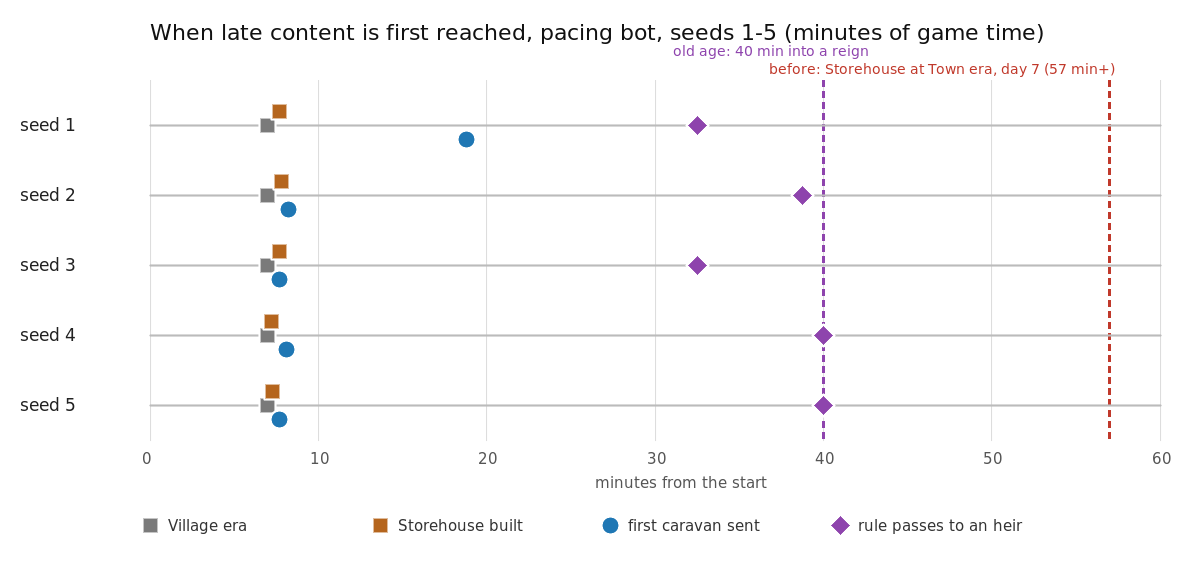
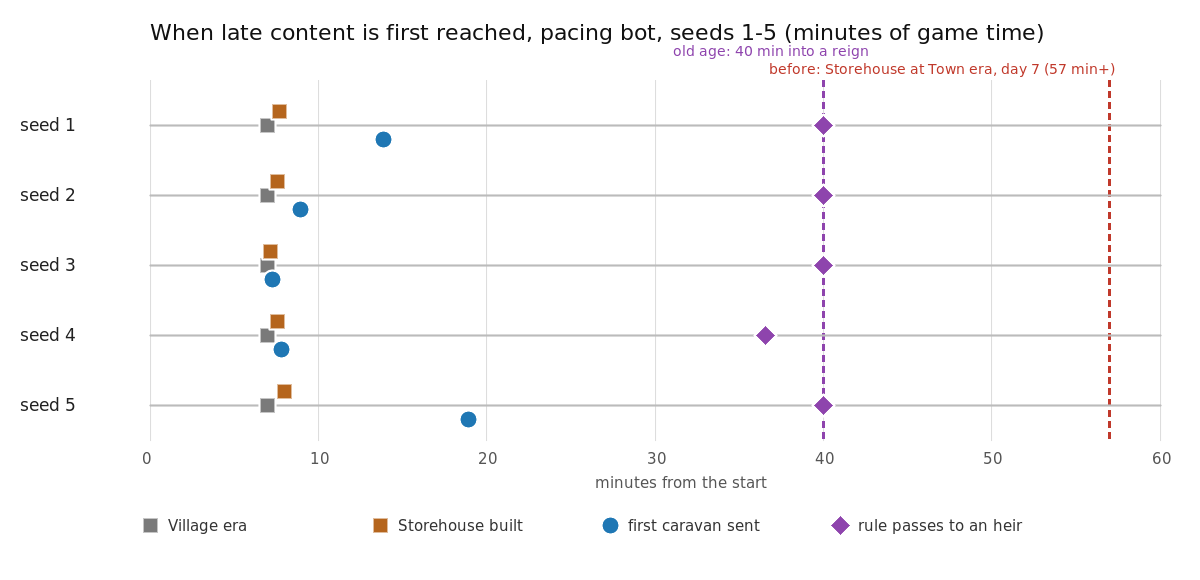
Rebase onto develop with #459 and #460; regenerate the pacing tables and visuals
The measured-timings table and milestone chart come from a fresh run
with the bot answering world-event sheets (#460): old age now ends the
founder's reign at 40 minutes on four of five seeds, and the bot starves
on one (seed 4, 36m 34s) where it starved on three before. Screenshots
are retaken from seed 3.

Claude-Session: https://claude.ai/code/session_01LYNeukxdP2eURbP7PJnoVK

diff --git a/docs/PACING.md b/docs/PACING.md
@@ -9,7 +9,7 @@ How long each objective takes is measured, not guessed. `tools/BeyondNations.Pac
 - It works on the current objective and nothing else, pressing one key at a time and at most five a second.
 - It walks to things (sprinting, turning to face them) and never teleports. Gifts, conversations and market sales are at most one a second, the speed at which someone can read the reply.
 - It only runs the Core commands that the keys and HUD buttons run (`InteractCommand`, `NationCreateCommand`, `FoundSettlementCommand`, `BuildStallCommand`, `BuildBuildingCommand`, `SellResourcesAtMarketCommand`, `GiftPawnCommand`, `InvitePawnToNationCommand`, `GiftNationCommand`, the caravan panel's `TradeCaravans.dispatchPlayerCaravan`, and `WorldEvents.choose` for a world event's sheet). It never uses a debug command.
-- When it works on funds it follows the hint's other road too ("send a caravan from a Storehouse"): once the era unlocks the storehouse, it builds one at home, and with one built it loads what it carries on a caravan to the first market the panel offers whenever one of its two caravans is free.
+- When it works on funds it follows the hint's other road too ("send a caravan from a Storehouse"): once the era unlocks the storehouse, it builds one at home, and with one built it loads what it carries on a caravan to the first market the panel offers whenever one of its two caravans is free. It does both between recruits too, since recruiting needs no wood or stone.
 - It recruits nationless settlers first. They join at Acquaintance, as the hint says. Only when there are none left anywhere does it court another nation's members who neither lead it nor are Loyal by nature. Those need Loyal standing, and poaching them sours relations. It sticks with one settler for up to two minutes while that settler is out of doors.
 - It answers a world event's choice sheet a second after it comes up, with the first choice it can take that costs no coins, since it keeps its coins for gifts (drive the bandits off, dig ditches, welcome the wanderers; `PacingBot.chooseWorldEventAnswer`), through `WorldEvents.choose`, the sheet's buttons. A person cannot play on past the sheet (the host pauses the world), so the bot does not either; it used to leave every sheet to its three-minute timeout and default.
 - When a siege warning tells it to "Gift, ally or grow it", it sends the besieger a gift if it can afford one. If it loses its nation anyway, it founds a new one and starts again.
@@ -28,13 +28,13 @@ Some late content is not an objective but should come up in a normal session of 
 | `caravan` | the player has a caravan of their own on the road | 30 min |
 | `succession` | the rule has passed to an heir (old age, hunger or abdication) | 60 min |
 
-Measured on seeds 1 to 5 (one hour each), with the Village era at day 2 (#455): the Storehouse at 7m 14s to 7m 49s (as the Village era comes), the first caravan within a minute after it on four seeds (18m 47s on seed 1), and a succession on every seed: of old age at 40m 00s on seeds 4 and 5, of hunger at 32m 33s to 38m 47s on seeds 1 to 3 (the bot gives its food away recruiting). The binding objectives are unchanged to within a few seconds, and the objective budget is unchanged.
+Measured on seeds 1 to 5 (one hour each), with the Village era at day 2 (#455) and the bot answering world-event sheets (#460): the Storehouse at 7m 08s to 7m 59s (as the Village era comes), the first caravan at 7m 18s to 18m 56s, and a succession on every seed: of old age at 40m 00s on seeds 1, 2, 3 and 5, and of hunger at 36m 34s on seed 4, six minutes after the founder was told they were growing old. Before the bot answered world events it starved on three seeds at 32 to 39 minutes. The binding objectives are unchanged to within a few seconds, and the objective budget is unchanged.
 
 ![When the Storehouse, the first caravan and the first succession were reached on seeds 1 to 5](./screenshots/reachable-late-game/pacing-milestones.png)
 
-The chart is drawn from `pacing-report.json` by `python3 tools/pacing-milestones-chart.py pacing-out/pacing-report.json OUT.png src/BeyondNations.Desktop/assets/fonts/DejaVuSans.ttf` (ImageMagick). The screenshots below are the bot's own run on seed 4, saved with `--save-at` and loaded in the game with `--continue` (and `--start-screen laws`). They show:
+The chart is drawn from `pacing-report.json` by `python3 tools/pacing-milestones-chart.py pacing-out/pacing-report.json OUT.png src/BeyondNations.Desktop/assets/fonts/DejaVuSans.ttf` (ImageMagick). The screenshots below are the bot's own run on seed 3, saved with `--save-at` and loaded in the game with `--continue` (and `--start-screen laws`). They show:
 
-- the bot on day 2 of the Village era, just after it sent a caravan of 14 wood (the caravan is on the road ahead);
+- the bot on day 2 of the Village era, just after it sent a caravan of 6 wood and 5 stone;
 - day 4, when the chronicle says the founder is growing old;
 - the Laws tab naming the heir, with when old age comes and *Abdicate*, on desktop and phone;
 - the succession screen when the founder dies of old age, 40 minutes in.
@@ -43,7 +43,7 @@ A run consumes the succession notice five seconds after it appears, as a player 
 
 | | |
 |---|---|
-| ![Day 2, Village era: the bot's caravan of 14 wood on the road, and the chronicle line that sent it](./screenshots/reachable-late-game/caravan-sent.png) | ![Day 4: the chronicle says the founder is growing old](./screenshots/reachable-late-game/growing-old.png) |
+| ![Day 2, Village era: the chronicle line for the caravan the bot just sent](./screenshots/reachable-late-game/caravan-sent.png) | ![Day 4: the chronicle says the founder is growing old](./screenshots/reachable-late-game/growing-old.png) |
 | ![The Laws tab names the heir, says when old age comes, and offers Abdicate](./screenshots/reachable-late-game/laws-heir-abdicate.png) | ![The succession screen at 40 minutes: the founder died of old age after a reign of 4 days](./screenshots/reachable-late-game/succession-old-age.png) |
 
 <img src="./screenshots/reachable-late-game/laws-heir-abdicate-phone.png" alt="The Laws tab at phone size" width="270">
@@ -125,15 +125,15 @@ Seconds of game time per objective, at 50 ticks a second and 30 000 ticks (10 mi
 | Enter your settlement | 1 | 1 | 1 | 1 | 1 | 0 – 60 |
 | Build a market stall | 7 | 14 | 6 | 6 | 5 | 0 – 120 |
 | Reach the Village era | 404 | 393 | 403 | 406 | 407 | 300 – 1800 |
-| Sell resources at market | 1 | 12 | 1 | 2 | 11 | 0 – 180 |
-| Found a second settlement | 11 | 18 | 20 | 1 | 23 | 0 – 120 |
-| Grow your nation to 16 (ambition) | 199 | 120 | 203 | 1 | 125 | 5 – 2400, advisory |
-| Amass 1000 coins (ambition) | 238 | 186 | 177 | 33 | 181 | 30 – 3900, advisory |
-| Hold 3 settlements (ambition) | 13 | 25 | 24 | 12 | 23 | 0 – 300, advisory |
-| Reach the Town era (ambition) | 2538 | 2639 | 2575 | 2951 | 2637 | 0 – 5400, advisory |
+| Sell resources at market | 11 | 11 | 6 | 5 | 4 | 0 – 180 |
+| Found a second settlement | 16 | 1 | 1 | 13 | 28 | 0 – 120 |
+| Grow your nation to 16 (ambition) | 363 | 109 | 1 | 170 | 659 | 5 – 2400, advisory |
+| Amass 1000 coins (ambition) | 80 | 89 | 62 | 81 | 85 | 30 – 3900, advisory |
+| Hold 3 settlements (ambition) | 25 | 1 | 38 | 1 | 23 | 0 – 300, advisory |
+| Reach the Town era (ambition) | 2505 | 2789 | 2892 | 2730 | 2201 | 0 – 5400, advisory |
 | Grow your nation to 25 (ambition) | 1 | 1 | 1 | 1 | 1 | 300 – 3600, advisory |
 
-Measured with eras (Camp to Kingdom, see SYSTEMS.md) and the hungry start (the player begins at 85 energy), on develop with seasons, regions, rulers, world events, trade and spoiling apples, for one hour of game time a seed (`maxTicks` 180 000, 14 objectives). Spoiling apples (SYSTEMS.md, "Seasons") left every binding objective inside its budget and the budget unchanged; the arc to the Village era is unchanged to the second. Among the advisory ambitions, seed 3 now amasses its 1000 coins and goes on to the Town era (it stalled on the coins before), seed 1 now grows to 25, and the Town era takes longer on seed 1 (36 minutes after the previous step, against 24). The arc up to the Village era takes 17 to 20 minutes of game time on seeds 1 to 15. Starving pawns foraging rather than walking home to a market that cannot feed them (SYSTEMS.md, "Seasons") left the binding objectives and the arc to the Village era unchanged; it moved the advisory ambitions a little (seed 3 grows to 16 four minutes later and amasses its coins later, the Town era comes earlier on seeds 3 and 5), and the budget is unchanged. The table was last regenerated on develop with pawn energy capped at a full bar (#340) and Interact acting on what the player faces (below, "Known issues"); the budget is unchanged. It was regenerated again with the Village era at day 2 instead of day 3 (#352, below in "The eras") and the player's nation growing past a full world (#371, below in "Recruiting"): the Village era now comes at 7m 00s on all five seeds (17m 00s before), so the steps after it come ten minutes sooner and the members ambitions, no longer met while the bot waited for day 3, take two to three minutes. The Town era still comes at 57m 00s, its day. Every binding objective is inside its budget and the budget's numbers are unchanged; only the Village era's note was rewritten. "Grow your nation to 25" is met within a second on every seed (advisory, too fast): with #371 the courting bot's nation is well past 25 members by the time that ambition comes up.
+Measured with eras (Camp to Kingdom, see SYSTEMS.md) and the hungry start (the player begins at 85 energy), on develop with seasons, regions, rulers, world events, trade and spoiling apples, for one hour of game time a seed (`maxTicks` 180 000, 14 objectives). Spoiling apples (SYSTEMS.md, "Seasons") left every binding objective inside its budget and the budget unchanged; the arc to the Village era is unchanged to the second. Among the advisory ambitions, seed 3 now amasses its 1000 coins and goes on to the Town era (it stalled on the coins before), seed 1 now grows to 25, and the Town era takes longer on seed 1 (36 minutes after the previous step, against 24). The arc up to the Village era takes 17 to 20 minutes of game time on seeds 1 to 15. Starving pawns foraging rather than walking home to a market that cannot feed them (SYSTEMS.md, "Seasons") left the binding objectives and the arc to the Village era unchanged; it moved the advisory ambitions a little (seed 3 grows to 16 four minutes later and amasses its coins later, the Town era comes earlier on seeds 3 and 5), and the budget is unchanged. The table was last regenerated on develop with pawn energy capped at a full bar (#340) and Interact acting on what the player faces (below, "Known issues"); the budget is unchanged. It was regenerated again with the Village era at day 2 instead of day 3 (#352, below in "The eras") and the player's nation growing past a full world (#371, below in "Recruiting"): the Village era now comes at 7m 00s on all five seeds (17m 00s before), so the steps after it come ten minutes sooner and the members ambitions, no longer met while the bot waited for day 3, take two to three minutes. The Town era still comes at 57m 00s, its day. Every binding objective is inside its budget and the budget's numbers are unchanged; only the Village era's note was rewritten. "Grow your nation to 25" is met within a second on every seed (advisory, too fast): with #371 the courting bot's nation is well past 25 members by the time that ambition comes up. It was regenerated once more, from a fresh run, with the Storehouse in the Village era, the bot building one and sending caravans between other work, pawn-led settlements held to village tier before day 7 and rulers growing old (#372, #373; "Milestones", above), on develop with settlement holders (#459) and the bot answering world-event sheets (#460). Every binding objective is inside its budget and the budget is unchanged.
 
 ### The opening (#351, #370, #433)
 
